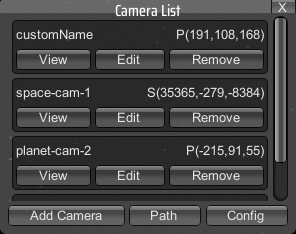
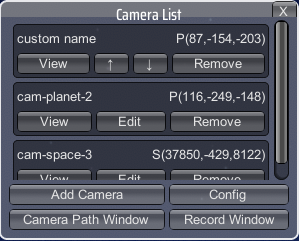
[CameraTools] v0.5.0

diff --git a/CameraTools/src/Plugin.cs b/CameraTools/src/Plugin.cs
@@ -16,7 +16,7 @@ namespace CameraTools
     {
         public const string GUID = "starfi5h.plugin.CameraTools";
         public const string NAME = "CameraTools";
-        public const string VERSION = "0.4.1";
+        public const string VERSION = "0.5.0";
 
         public static ManualLogSource Log;
         public static ConfigFile ConfigFile;

diff --git a/CameraTools/README.md b/CameraTools/README.md
@@ -1,7 +1,11 @@
 # CameraTools
 
 ![demo](https://raw.githubusercontent.com/starfi5h/DSP_Mod_Support/dev/CameraTools/img/demo1.gif)  
-Capture different camera positions. Create cinematic transitions between them.  
+There are 3 main systems in this mod:
+- Camera List: Save stationary camera position on local planet or in space. Edit and view them anytime.  
+- Path List: Craft a camera path to let the viewing camera go through each point smoothly.
+- Timelapse Record: Captured screenshots in fixed time intervals by main or second camera.
+  
 Inspired by [Cities Skylines mod Cinematic Camera Extended by SamsamTS](https://steamcommunity.com/sharedfiles/filedetails/?id=785528371).  
 
 ## Camera List (Alt+F5)
@@ -62,8 +66,22 @@ The target to look at during playback.
 When the target config window is opened, it shows a pink sphere marker to indicate where the camera is looking at.  
 Can set it to a fixed point on the planet or space, or a moving point relatived to the mecha.  
 
+## Timelapse Record (Alt+F7)
+![record window](https://raw.githubusercontent.com/starfi5h/DSP_Mod_Support/dev/CameraTools/img/record-window.png)  
+First, set the screenshot folder path, then click `Start Record` button to take screenshots with the assigned camera path every x second.  
+The file format is `%06d.jpg` starting with 1. The index reset after the game restart.  
+- Status Text: When recording, display how long until the next capture. After capture, display file name and encode time.
+- Path: Select a camera path from the list to record in the secondary camera. If not selected, it will capture the main camera. Click play button to let the camera move along the path during recording.  
+  Note: This secondary camera only works best **on the local planet**. For space timelapse it is adviced to use the main camera.
+- JPG Quality: JPG quality to encode with. [The range is 1 through 100. 1 is the lowest quality.](https://docs.unity3d.com/ScriptReference/ImageConversion.EncodeToJPG.html)  
+  
+After recording, you can combine the sequence of images into a video. For example with [FFmpeg](https://www.ffmpeg.org/):
+```
+ffmpeg -framerate 24 -i %06d.jpg -s 1920x1080 output.mp4
+```
+
 ## Installation & Mod Config
-![plugin config](https://raw.githubusercontent.com/starfi5h/DSP_Mod_Support/dev/CameraTools/img/plugin-config.png)  
+![mod config](https://raw.githubusercontent.com/starfi5h/DSP_Mod_Support/dev/CameraTools/img/mod-config.png)  
 Via [r2modman](https://thunderstore.io/c/dyson-sphere-program/p/ebkr/r2modman/), or manual download the file and put `CameraTools.dll` in `BepInEx/plugins` folder.  
 Keyboard shortcuts can be changed in the mod config window.  
 All mod config together with stored camera data is in `BepInEx\config\starfi5h.plugin.CameraTools.cfg`.  
@@ -79,8 +97,16 @@ After importing success, user can choose which camera or path to add in the list
 - The star image will distort when space camera position is different from player's.  
 It can be fixed by letting player move along with space camera in mod config.  
 - Rotation is not smooth enough in curve camera path with respect to position changes.  
+- Flicker in space when using secondary camera to record timelapse.  
+Use the main camera to move with path instead.  
 
 ## ChangeLogs
+
+#### v0.5.0
+- Add timelapse recording feature to capture screenshots with secondary camera.
+- Revert mecha position restore funcion in v0.4.0.
+- Add loop option in camera path window.
+- Add set to current mecha position option in target window.
 
 #### v0.4.1
 - Add keybind `Play Current Path` to play/pause the current editing path.
